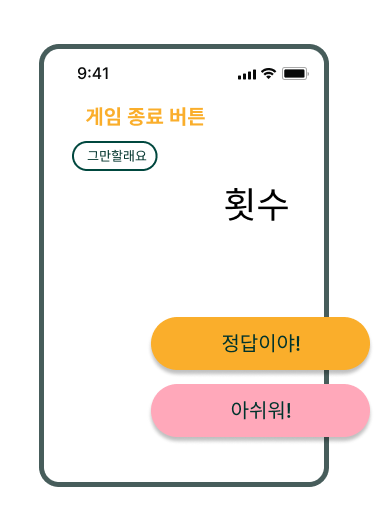
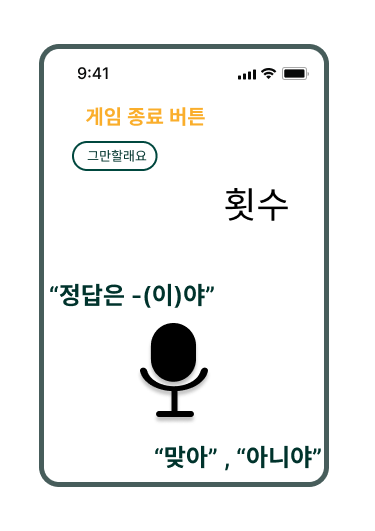
fix:튜토리얼 사진, 글씨 수정
튜토리얼6 사진 교체
slide text 줄바꿈
space-y 적용

Changed region(s): [[0.352, 0.5122, 0.9973, 0.904], [0.1467, 0.5122, 0.3227, 0.6026], [0.5867, 0.8738, 0.616, 0.904]]

diff --git a/app/src/components/feat_yunsun/organism/ImageSlide.jsx b/app/src/components/feat_yunsun/organism/ImageSlide.jsx
@@ -15,10 +15,10 @@ const CustomContainer = styled(ScrollContainer);
 const slides = [
   { source: require('../../../assets/Images/Tutorial1.png'), text: "음성과 카메라 접근에 허용해주세요!" },
   { source: require('../../../assets/Images/Tutorial2.png'), text: "똑똑이와 스무고개를 시작해보세요!" },
-  { source: require('../../../assets/Images/Tutorial3.png'), text: "원하는 순서와 주제를 고를 땐 아래의 버튼을 클릭해요" },
-  { source: require('../../../assets/Images/Tutorial4.png'), text: "게임을 할 땐 마이크 버튼을 꾹 누르고 이야기 해보세요!" },
+  { source: require('../../../assets/Images/Tutorial3.png'), text: "원하는 순서와 주제를 고를 땐\n 아래의 버튼을 클릭해요" },
+  { source: require('../../../assets/Images/Tutorial4.png'), text: "게임을 할 땐 마이크 버튼을 꾹 누르고\n 이야기 해보세요!" },
   { source: require('../../../assets/Images/Tutorial5.png'), text: "똑똑이와 눈을 마주치면서 대화해보세요!" },
-  { source: require('../../../assets/Images/Tutorial6.png'), text: "질문 횟수 설명 정답이면 버튼을 눌러주세요!" }
+  { source: require('../../../assets/Images/Tutorial6.png'), text: "답을 알겠으면 [정답은 -(이)야!]로,\n질문에는 [맞아],[아니야]로\n대답해주세요!" }
 ];
 const ImageSlide = ({ navigation }) => {
   const scrollViewRef = useRef();
@@ -52,7 +52,7 @@ const ImageSlide = ({ navigation }) => {
       >
         {slides.map((slide, index) => (
           <CustomContainer key={index}>
-            <Slide style={{ width: width, paddingRight: 20 }} className="items-center">
+            <Slide style={{ width: width, paddingRight: 20 }} className="items-center space-y-4">
               <CustomImage source={slide.source} width={moderateScale(350, 0.3)} height={verticalScale(400)} />
               <CustomText size="lg" color="headline" numberOfLines={3}>{slide.text}</CustomText>
             </Slide>
